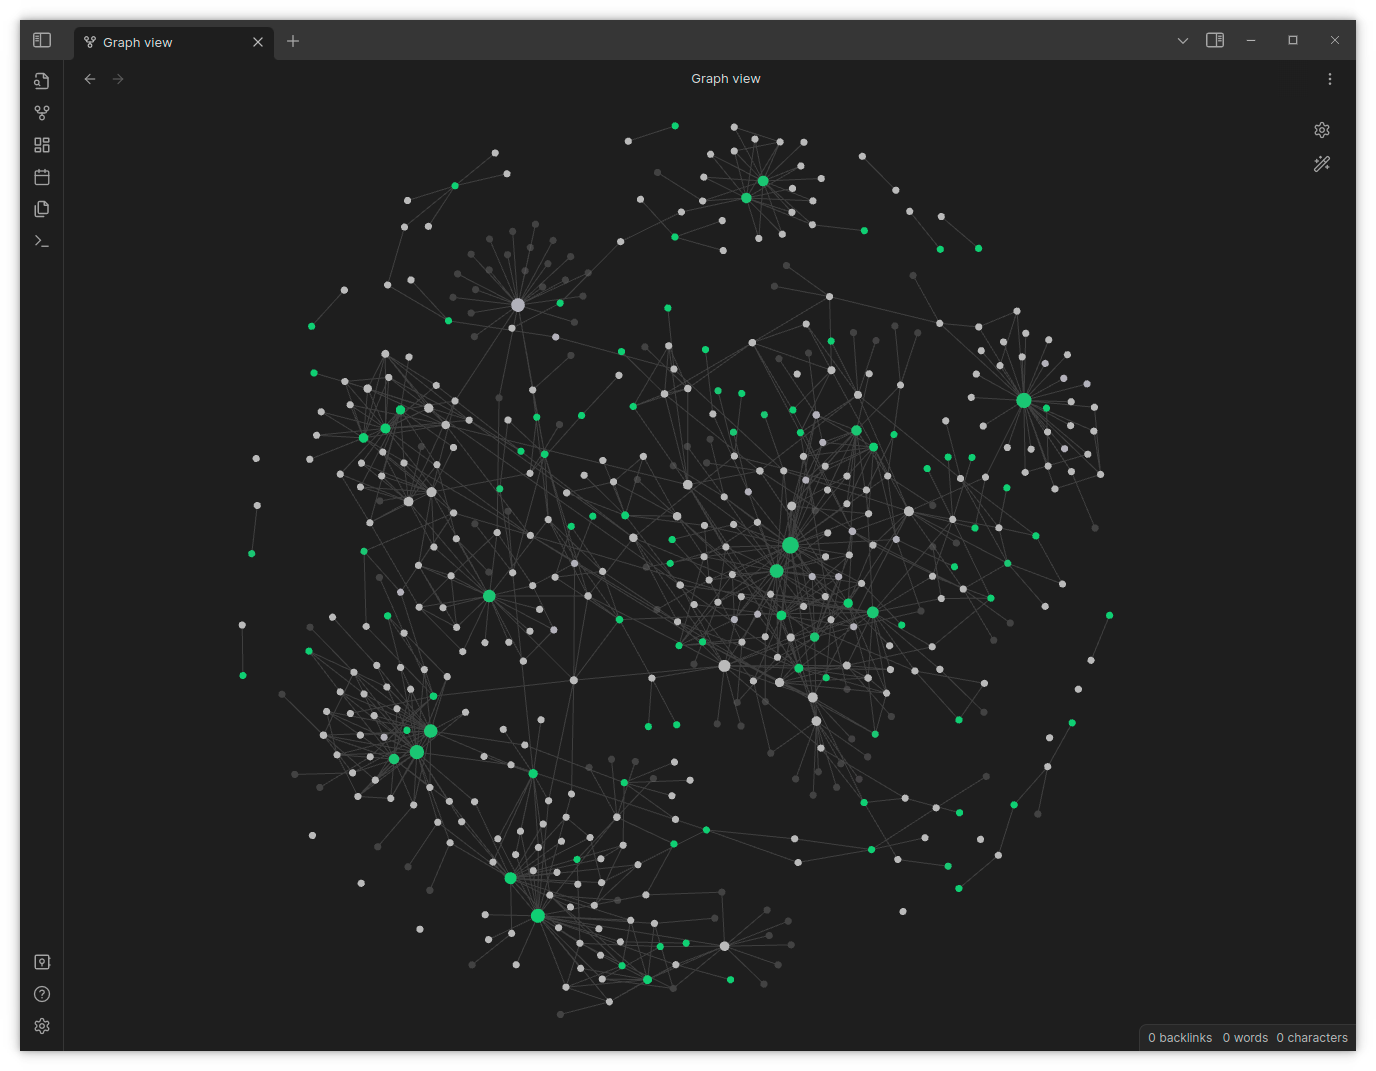
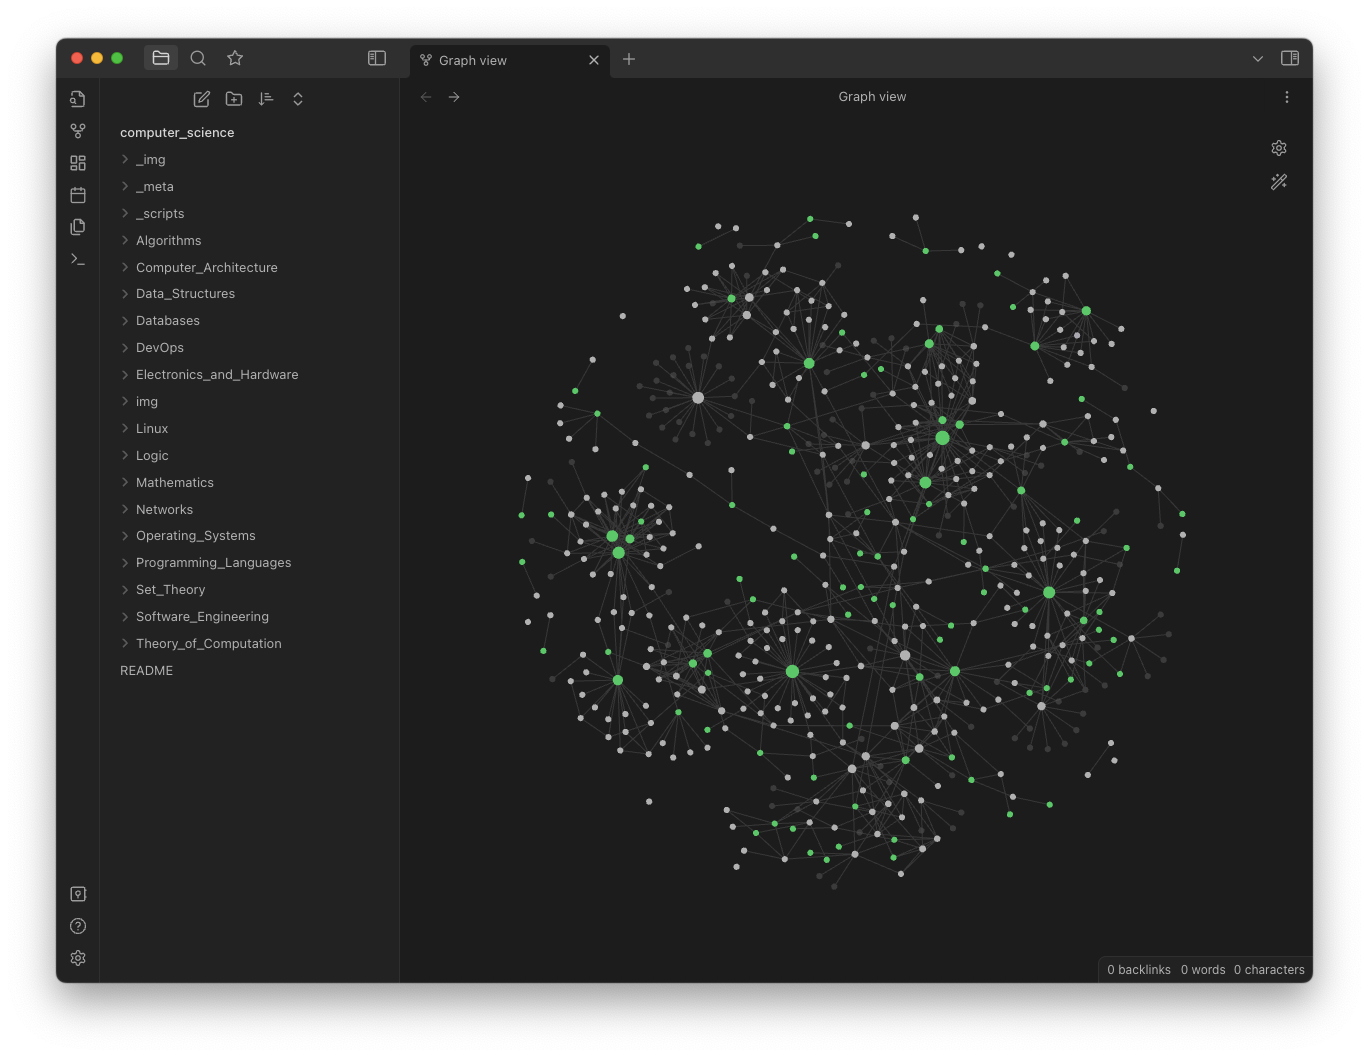
add better images to meridian first post

diff --git a/src/index.css b/src/index.css
@@ -198,3 +198,8 @@ hr {
     margin-right: 0.5rem;
   }
 }
+
+/* Overrides */
+.gatsby-resp-image-image {
+  box-shadow: none !important;
+}

diff --git a/src/posts/meridian-intro.md b/src/posts/meridian-intro.md
@@ -8,34 +8,30 @@ _These fragments I have shored against my ruins._
 
 &mdash; T.S Eliot, _The Waste Land_
 
-I'm writing this as a statement of intent, and to put my procrastinating tendencies on notice. I plan to create an extension for VS Code that will allow me to quickly retrieve, analyse and organise my Markdown-based notes.
+I plan to create an extension for VS Code that will augment its existing Markdown capabilities to better assist me in quickly retrieving, organising and analysing my study notes.
 
 Everything important that I learn about software engineering and computer science is written in Markdown fragments and saved to a [single public repository](https://github.com/thomasabishop/computer-science). This collated wisdom is my gift to humanity and the vast inheritance of my non-existent children.
 
-For a while I used [Obsidian](https://obsidian.md/) as my primary note-taking tool. It allows for Markdown editing (including a Vim mode), it has a very cool knowledge-graph feature and most importantly does not own or store your data on a server or in the cloud. If the company goes bust or is hacked, your data is still yours and safe.
+For a while I used [Obsidian](https://obsidian.md/) as my primary note-taking tool. It allows for Markdown editing (including a Vim mode), has a useful network-graph feature and importantly runs locally without storing your data on a server or in the cloud. If the company goes bust or is hacked, your data is still yours and safe.
 
-I moved from [Notion](https://www.notion.so) to Obsidian when I belatedly clocked that they pretty much own your data. Your notes are not available offline so if they suffer a breach or network failure, you're locked out. Also, until people complained, basically any employee could access your data. My employer blocks Notion on work machines for their cavalier practices.
-
-![](./img/notion-bullshit.png)
-
-<p align="center"><i>So that's fine, then</i></p>
+This is the reason I moved from [Notion](https://www.notion.so) to Obsidian. In Notion, your notes are not available offline so if they suffer a breach or network failure, you're locked out. Also, until people complained and they were forced to implement locks, anyone working at Notion could access your data. My employer, the BBC, has blocked Notion as a result of these practices.
 
 While Obsidian is a significant improvement on Notion the following aspects bothered me:
 
-- You are only able to cross-reference each file by a single metadatum - tags. No custom metadata.
-- It does not use the default Markdown link syntax but rather a wiki-like variant. This means that if you access your notes outside of Obsidian, the links don't always work and this is especially the case when you have used relative links
+- You are only able to cross-reference each file by a single metadatum - tags.
+- It does not use the default Markdown link syntax. This means that if you access your notes outside of Obsidian, the links don't always work, especially relative links
 - The text-editing experience is a bit clunky. Although they offer a Vim mode, the typeface remains sans-serif not monospaced, so its a disjointed experience using `+h` and `-l` to move through characters.
-- The UI has far too many options and icons, a lot of which is bloat.
-- You have to keep your images in the same "vault" (directory) as the Markdown that references it. But it's not possible to hide this directory or mask it from the indexer. Consequently, a link to an image (which is of course necessary to embed it in a Markdown file) counts as a hyperlink and shows up in the network graph view which serves little purpose given that it has no semantic value and is just a reference to a binary resource. You can hide these from the graph but they shouldn't be there in the first place. I imagine that this might be useful for academics and archivists but for note-taking it seems largely redundant.
-- It's free software but is not open source. As a Linux user I always find this a bit troubling philosophically. But more practically, it means that you cannot offer improvements via pull-requests or fork your own customised version.
+- The UI has too many options and icons for things I don't care about.
+- You have to keep your images in the same directory as your Markdown, but it's not possible to hide this directory or mask it from the indexer. Consequently, a link to an image counts as a hyperlink and shows up in the network-graph which serves little purpose given that it has no semantic value and is just a reference to a binary resource. You can manually hide these from the graph but I don't think they should be there in the first place.
+- It's free software but is not open source. As such, you cannot offer improvements via pull-requests or fork your own customised version.
 
-More than these individual gripes, using Obsidian meant that I had to use two pieces of software for simultaneous activity: VSCode for coding, Obsidian for writing notes about code. I really dislike context switching between apps and wasting mental energy reorientating myself to different layouts and buttons.
+More than these individual problems, using Obsidian meant that I had to use two pieces of software for simultaneous activity: VSCode for coding, Obsidian for writing notes about code. I really dislike context switching and try to reduce the amount of software I use for any one task.
 
-Now I've realised that the solution is to bring the benefits of Obsidian to VS Code via an extension.
+I've realised that the best solution for me is to bring the benefits of Obsidian to VS Code via an extension.
 
-Say what you like about Microsoft's almost papal hegemony over the software engineering ecosystem (VS Code, C#, TypeScript, GitHub, Atom, .NET Core, Windows, WSL, and now ChatGPT), VSCode is pretty good software. The fact that it is open source and has a great plugin library means I can use it for most programming languages. Again, to avoid context switching and wasted mental energy I'd rather have a passable VSCode environment for multiple langugages rather than multiple IDEs.
+Say what you like about Microsoft's papal hegemony over the software engineering ecosystem (VS Code, C#, TypeScript, GitHub, Atom, .NET Core, Windows, WSL, and now ChatGPT), VSCode is pretty good. The fact that it is open source and has a great plugin library means I can use it for most programming languages, without having to learn different IDEs.
 
-Many of the Obsidian selling points are already standard in VSCode: Markdown editing and rendering, version-control via Git, Vim keybindings, word and character counts etc. Plus there is an [excellent set of Markdown extensions](https://github.com/mjbvz) created by Microsoft worker Matt Bierner that enhance Markdown editing even further. My task, then, is to create an extension than enhances the existing Markdown capabilities for users that are accustomed to Obsidian. In the first instance this will be me. I will worry about extensibility and customisation once I have something I can use and am happy with.
+Many of the Obsidian selling points are already standard or easily added via extensions Markdown editing and rendering, version-control via Git, Vim keybindings, word and character counts etc. I want to create an extension than enhances the existing Markdown capabilities for users that are accustomed to Obsidian. In the first instance this will be me. I will worry about extensibility and customisation once I have something I can use and am happy with.
 
 The main features will be as follows:
 
@@ -52,17 +48,17 @@ The main features will be as follows:
 
   This will look something like the equivalent in Obsidian:
 
-  ![Obsidian tag view](./img/obsidian-tag-view.png)
+  ![Obsidian tag view](./img/obsidian-tags.png)
 
 - An "inlinks" and "outlinks" view that updates when you switch between open files. The latter will list documents that the current document links to. The former will list documents that link to the current document. This copies the following functionality in Obsidian.
 
-  ![Obsidian backlinks view](./img/obsidian-backlink-view.png)
+  ![Obsidian backlinks view](./img/obsidian-backlinks.png)
 
 - A network-graph view that maps linkages between documents, tags and categories. I have to admit this is rather splendid in Obsidian:
 
   ![](./img/obsidian-graph-view.png)
 
-I am going to call it "Meridian" because it rhymes with "Obsidian"; the letters "M" and "D" figure promimently and this of course is the `.md` extension; plus my family live in a seaside town called Peacehaven in East Sussex which is directly on the Greenwich Meridian (we even have an underwhelming monument), so there's some personal significance.
+I am going to call it "Meridian" because it rhymes with "Obsidian"; the letters "M" and "D" figure prominently, recalling the `.md` file extension; and my family live in a seaside town called Peacehaven in East Sussex which is directly on the Greenwich Meridian (we even have an underwhelming monument), so there's some personal significance.
 
 ![](./img/meridian-monument.jpg)
 
